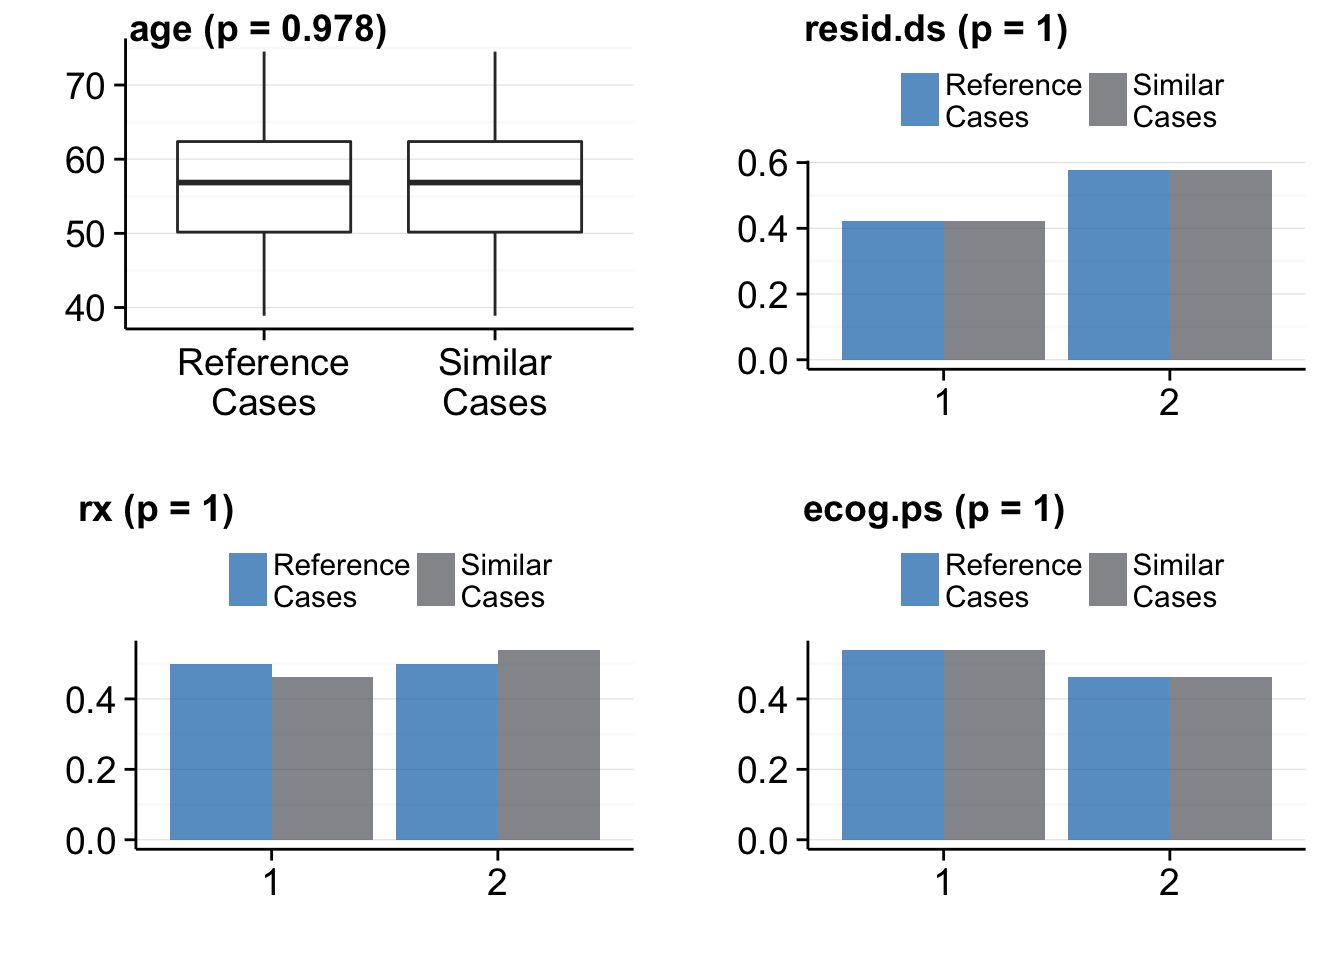
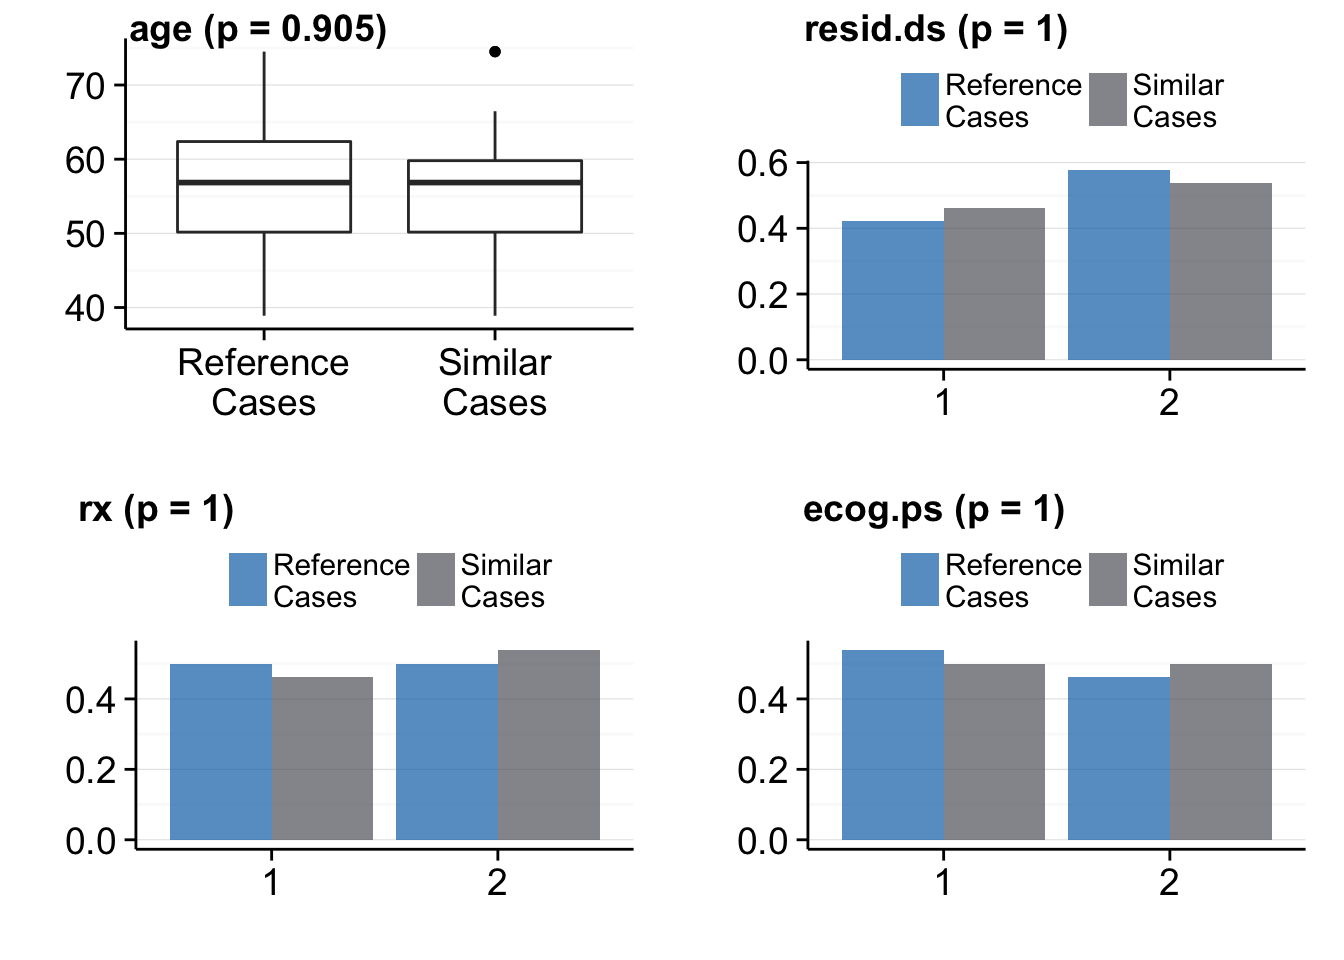
update docs

diff --git a/example-cox-model.html b/example-cox-model.html
@@ -107,12 +107,11 @@ img {
                     </li>
                     <li class="dropdown">
                       <a href="#" class="dropdown-toggle" data-toggle="dropdown">Documentation<b class="caret"></b></a>
-                      <ul class="dropdown-menu">
+                    <!--  <ul class="dropdown-menu">
                         <li><a href="class-structure.html">Class Structure</a></li>
                         <li><a href="distance-measures.html">Distance Measures</a></li>
-                      </ul>
+                      </ul>-->
                     </li>
-                    <li class="dropdown"><a href="#">Documentation</a></li>
                     <li><a href="about.html">About</a></li>
                   </ul>
                                 <ul class="nav navbar-nav navbar-right">
@@ -172,7 +171,7 @@ sc &lt;-<span class="st"> </span>cbrCoxModel$<span class="kw">new</span>(<span c
 <pre class="sourceCode r"><code class="sourceCode r">sc$<span class="kw">getSimilarCases</span>(<span class="dt">nCases =</span> <span class="dv">1</span>)</code></pre>
 <pre><code>## Start caclulating similar cases...
 ## Start learning...
-## Learning finished in: 0.03 seconds.
+## Learning finished in: 0.04 seconds.
 ## Similar cases calculation finished in: 0.04 seconds.</code></pre>
 <p>You may extract then the similar cases and the verum data and put them together:</p>
 <pre class="sourceCode r"><code class="sourceCode r">verum &lt;-<span class="st"> </span>sc$<span class="kw">getVerumData</span>()
@@ -187,7 +186,7 @@ df &lt;-<span class="st"> </span><span class="kw">rbind</span>(verum, simCases)<
 <h3><span class="header-section-number">0.2.1</span> Validate</h3>
 <p>You may want to check the distibution of the <code>learnVars</code> variables of the verum and similar cases data set:</p>
 <pre class="sourceCode r"><code class="sourceCode r">pp &lt;-<span class="st"> </span>sc$<span class="kw">validate</span>()</code></pre>
-<pre><code>## Two-sample Wilcoxon test for variable: age; p = 0.993
+<pre><code>## Two-sample Wilcoxon test for variable: age; p = 1
 ## Chi-Square test for variable: resid.ds; p = 1
 ## Chi-Square test for variable: rx; p = 1
 ## Chi-Square test for variable: ecog.ps; p = 1</code></pre>

diff --git a/cox-beta.html b/cox-beta.html
@@ -107,12 +107,11 @@ img {
                     </li>
                     <li class="dropdown">
                       <a href="#" class="dropdown-toggle" data-toggle="dropdown">Documentation<b class="caret"></b></a>
-                      <ul class="dropdown-menu">
+                    <!--  <ul class="dropdown-menu">
                         <li><a href="class-structure.html">Class Structure</a></li>
                         <li><a href="distance-measures.html">Distance Measures</a></li>
-                      </ul>
+                      </ul>-->
                     </li>
-                    <li class="dropdown"><a href="#">Documentation</a></li>
                     <li><a href="about.html">About</a></li>
                   </ul>
                                 <ul class="nav navbar-nav navbar-right">
@@ -202,7 +201,7 @@ pp</code></pre>
 <h2><span class="header-section-number">2.2</span> Validation of the matching Variables</h2>
 <p>You may want to check the distibution of the <code>learnVars</code> variables of the verum and similar cases data set:</p>
 <pre class="sourceCode r"><code class="sourceCode r">pp &lt;-<span class="st"> </span>sc$<span class="kw">validate</span>()</code></pre>
-<pre><code>## Two-sample Wilcoxon test for variable: age; p = 0.978
+<pre><code>## Two-sample Wilcoxon test for variable: age; p = 0.905
 ## Chi-Square test for variable: resid.ds; p = 1
 ## Chi-Square test for variable: rx; p = 1
 ## Chi-Square test for variable: ecog.ps; p = 1</code></pre>

diff --git a/index.html b/index.html
@@ -107,12 +107,11 @@ img {
                     </li>
                     <li class="dropdown">
                       <a href="#" class="dropdown-toggle" data-toggle="dropdown">Documentation<b class="caret"></b></a>
-                      <ul class="dropdown-menu">
+                    <!--  <ul class="dropdown-menu">
                         <li><a href="class-structure.html">Class Structure</a></li>
                         <li><a href="distance-measures.html">Distance Measures</a></li>
-                      </ul>
+                      </ul>-->
                     </li>
-                    <li class="dropdown"><a href="#">Documentation</a></li>
                     <li><a href="about.html">About</a></li>
                   </ul>
                                 <ul class="nav navbar-nav navbar-right">

diff --git a/manifild-learning.html b/manifild-learning.html
@@ -107,12 +107,11 @@ img {
                     </li>
                     <li class="dropdown">
                       <a href="#" class="dropdown-toggle" data-toggle="dropdown">Documentation<b class="caret"></b></a>
-                      <ul class="dropdown-menu">
+                    <!--  <ul class="dropdown-menu">
                         <li><a href="class-structure.html">Class Structure</a></li>
                         <li><a href="distance-measures.html">Distance Measures</a></li>
-                      </ul>
+                      </ul>-->
                     </li>
-                    <li class="dropdown"><a href="#">Documentation</a></li>
                     <li><a href="about.html">About</a></li>
                   </ul>
                                 <ul class="nav navbar-nav navbar-right">

diff --git a/manifold-learning.html b/manifold-learning.html
@@ -107,12 +107,11 @@ img {
                     </li>
                     <li class="dropdown">
                       <a href="#" class="dropdown-toggle" data-toggle="dropdown">Documentation<b class="caret"></b></a>
-                      <ul class="dropdown-menu">
+                    <!--  <ul class="dropdown-menu">
                         <li><a href="class-structure.html">Class Structure</a></li>
                         <li><a href="distance-measures.html">Distance Measures</a></li>
-                      </ul>
+                      </ul>-->
                     </li>
-                    <li class="dropdown"><a href="#">Documentation</a></li>
                     <li><a href="about.html">About</a></li>
                   </ul>
                                 <ul class="nav navbar-nav navbar-right">

diff --git a/rf-proximity.html b/rf-proximity.html
@@ -107,12 +107,11 @@ img {
                     </li>
                     <li class="dropdown">
                       <a href="#" class="dropdown-toggle" data-toggle="dropdown">Documentation<b class="caret"></b></a>
-                      <ul class="dropdown-menu">
+                    <!--  <ul class="dropdown-menu">
                         <li><a href="class-structure.html">Class Structure</a></li>
                         <li><a href="distance-measures.html">Distance Measures</a></li>
-                      </ul>
+                      </ul>-->
                     </li>
-                    <li class="dropdown"><a href="#">Documentation</a></li>
                     <li><a href="about.html">About</a></li>
                   </ul>
                                 <ul class="nav navbar-nav navbar-right">

diff --git a/Classes.html b/Classes.html
@@ -90,12 +90,11 @@ img {
                     </li>
                     <li class="dropdown">
                       <a href="#" class="dropdown-toggle" data-toggle="dropdown">Documentation<b class="caret"></b></a>
-                      <ul class="dropdown-menu">
+                    <!--  <ul class="dropdown-menu">
                         <li><a href="class-structure.html">Class Structure</a></li>
                         <li><a href="distance-measures.html">Distance Measures</a></li>
-                      </ul>
+                      </ul>-->
                     </li>
-                    <li class="dropdown"><a href="#">Documentation</a></li>
                     <li><a href="about.html">About</a></li>
                   </ul>
                                 <ul class="nav navbar-nav navbar-right">

diff --git a/Quasi-Randomization.html b/Quasi-Randomization.html
@@ -80,12 +80,11 @@ img {
                     </li>
                     <li class="dropdown">
                       <a href="#" class="dropdown-toggle" data-toggle="dropdown">Documentation<b class="caret"></b></a>
-                      <ul class="dropdown-menu">
+                    <!--  <ul class="dropdown-menu">
                         <li><a href="class-structure.html">Class Structure</a></li>
                         <li><a href="distance-measures.html">Distance Measures</a></li>
-                      </ul>
+                      </ul>-->
                     </li>
-                    <li class="dropdown"><a href="#">Documentation</a></li>
                     <li><a href="about.html">About</a></li>
                   </ul>
                                 <ul class="nav navbar-nav navbar-right">

diff --git a/Shared-Decision.html b/Shared-Decision.html
@@ -80,12 +80,11 @@ img {
                     </li>
                     <li class="dropdown">
                       <a href="#" class="dropdown-toggle" data-toggle="dropdown">Documentation<b class="caret"></b></a>
-                      <ul class="dropdown-menu">
+                    <!--  <ul class="dropdown-menu">
                         <li><a href="class-structure.html">Class Structure</a></li>
                         <li><a href="distance-measures.html">Distance Measures</a></li>
-                      </ul>
+                      </ul>-->
                     </li>
-                    <li class="dropdown"><a href="#">Documentation</a></li>
                     <li><a href="about.html">About</a></li>
                   </ul>
                                 <ul class="nav navbar-nav navbar-right">

diff --git a/Workflow.html b/Workflow.html
@@ -88,12 +88,11 @@ img {
                     </li>
                     <li class="dropdown">
                       <a href="#" class="dropdown-toggle" data-toggle="dropdown">Documentation<b class="caret"></b></a>
-                      <ul class="dropdown-menu">
+                    <!--  <ul class="dropdown-menu">
                         <li><a href="class-structure.html">Class Structure</a></li>
                         <li><a href="distance-measures.html">Distance Measures</a></li>
-                      </ul>
+                      </ul>-->
                     </li>
-                    <li class="dropdown"><a href="#">Documentation</a></li>
                     <li><a href="about.html">About</a></li>
                   </ul>
                                 <ul class="nav navbar-nav navbar-right">

diff --git a/about.html b/about.html
@@ -80,12 +80,11 @@ img {
                     </li>
                     <li class="dropdown">
                       <a href="#" class="dropdown-toggle" data-toggle="dropdown">Documentation<b class="caret"></b></a>
-                      <ul class="dropdown-menu">
+                    <!--  <ul class="dropdown-menu">
                         <li><a href="class-structure.html">Class Structure</a></li>
                         <li><a href="distance-measures.html">Distance Measures</a></li>
-                      </ul>
+                      </ul>-->
                     </li>
-                    <li class="dropdown"><a href="#">Documentation</a></li>
                     <li><a href="about.html">About</a></li>
                   </ul>
                                 <ul class="nav navbar-nav navbar-right">

diff --git a/class-structure.html b/class-structure.html
@@ -88,12 +88,11 @@ img {
                     </li>
                     <li class="dropdown">
                       <a href="#" class="dropdown-toggle" data-toggle="dropdown">Documentation<b class="caret"></b></a>
-                      <ul class="dropdown-menu">
+                    <!--  <ul class="dropdown-menu">
                         <li><a href="class-structure.html">Class Structure</a></li>
                         <li><a href="distance-measures.html">Distance Measures</a></li>
-                      </ul>
+                      </ul>-->
                     </li>
-                    <li class="dropdown"><a href="#">Documentation</a></li>
                     <li><a href="about.html">About</a></li>
                   </ul>
                                 <ul class="nav navbar-nav navbar-right">
